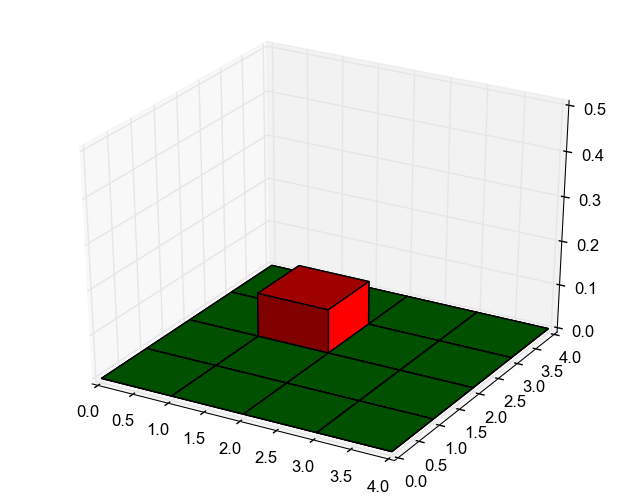
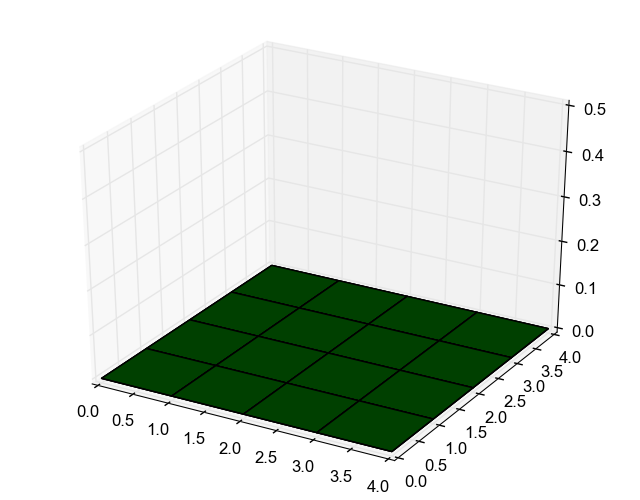
UI

Changed region(s): [[0.375, 0.51, 0.5938, 0.72]]

diff --git a/frontend.html b/frontend.html
@@ -1,13 +1,12 @@
 <!DOCTYPE html>
 <html>
 <body>
-
+<meta http-equiv="refresh" content="5">
 <h2>Pengineers - Mat</h2>
 <img src="gen.png" alt="Current Status of Mat" align="middle">
 
 <form action="localhost:8080/frontend.html">
     <input type="submit" value="Refresh">
 </form>
-
 </body>
 </html>

diff --git a/rasp_gpio.py b/rasp_gpio.py
@@ -1,7 +1,11 @@
 import RPi.GPIO as GPIO
 import time
 import serial
-
+from mpl_toolkits.mplot3d import Axes3D
+import matplotlib.pyplot as plt
+import numpy as np
+from matplotlib import cm
+import sys
 
 # Function which controls the motor based on the received data.
 # Here, we will be using a de-multiplexer and the raspPi will be controlling the select lines of this demux 
@@ -50,23 +54,86 @@ def setSelectLinesTo(val):
 		else:
 			GPIO.output(selectLines[i], GPIO.LOW)
 	# enable the demux
-	GPIO.output(enableDemux_pin, GPIO.LOW) 
+	GPIO.output(enableDemux_pin, GPIO.LOW)
+
+def initZerosMatrix(rows, columns):
+	matrix = []
+	for i in range(0, rows):
+		newRow = []
+		for j in range(0, columns):
+			newRow.append(0)
+		matrix.append(newRow)
+	return matrix
+
+
+def setRowColumn(row, column, value, matrix):
+	matrix[row][column] = value
+
+
+def plot3DMatrix(matrix):
+	rows = len(matrix)
+	columns = len(matrix[0])
+	# print rows
+	# print columns
+	xRows = []
+	yCols =[]
+	height = []
+	for i in range(0, rows):
+		for j in range(0, columns):
+			# put the rows and columns 
+			xRows.append(i)
+			yCols.append(j)
+			height.append(matrix[i][j]) 
+	return xRows, yCols, height
 
 initialize_raspi([], selectLines, [1 for i in selectLines])
 initialize_raspi([], [enableDemux_pin], [0])
-startPwm(0, 100)
+# startPwm(0, 100)
 
 
+def createImage(xSet1, ySet1, level):
+	global fig
+	global ax1
+	global matrix
+
+	setRowColumn(xSet1, ySet1, level, matrix)
+
+	xPos, yPos, dz = plot3DMatrix(matrix)
+
+	zPos = [0 for i in range(0, len(dz))]
+	dx = np.ones(len(xPos))
+	dy = np.ones(len(yPos))
+	ax1.set_zlim(0, 0.5)
+
+	colors = []
+	for i in range(0, len(zPos)):
+		if dz[i] > 0.3:
+			colors.append('b')
+		elif dz[i] > 0:
+			colors.append('r')
+		else:
+			colors.append('g')
+	 
+	ax1.bar3d(xPos, yPos, zPos, dx, dy, dz, color=colors)
+	plt.savefig('gen.png', bbox_inches='tight')	
 
 ser = serial.Serial(
    port='/dev/ttyS0',
    baudrate = 9600,
    timeout=1
 )
+fig = plt.figure()
+ax1 = fig.add_subplot(111, projection='3d')
+matrix = initZerosMatrix(4, 4)
 
 while 1:
 	x = ser.readline()
-	print x
+	if x != "":
+		print x
+		parsed = x.split(" ")
+		if len(parsed) == 2:
+			createImage(int(parsed[0]), int(parsed[1]), 0.1)
+
 
 while 1:
 

diff --git a/matrix_viz.py b/matrix_viz.py
@@ -38,7 +38,7 @@ fig = plt.figure()
 ax1 = fig.add_subplot(111, projection='3d')
 
 matrix = initZerosMatrix(4, 4)
-setRowColumn(int(sys.argv[1]), int(sys.argv[2]), 0.1, matrix)
+# setRowColumn(int(sys.argv[1]), int(sys.argv[2]), 0.1, matrix)
 
 xPos, yPos, dz = plot3DMatrix(matrix)
 
